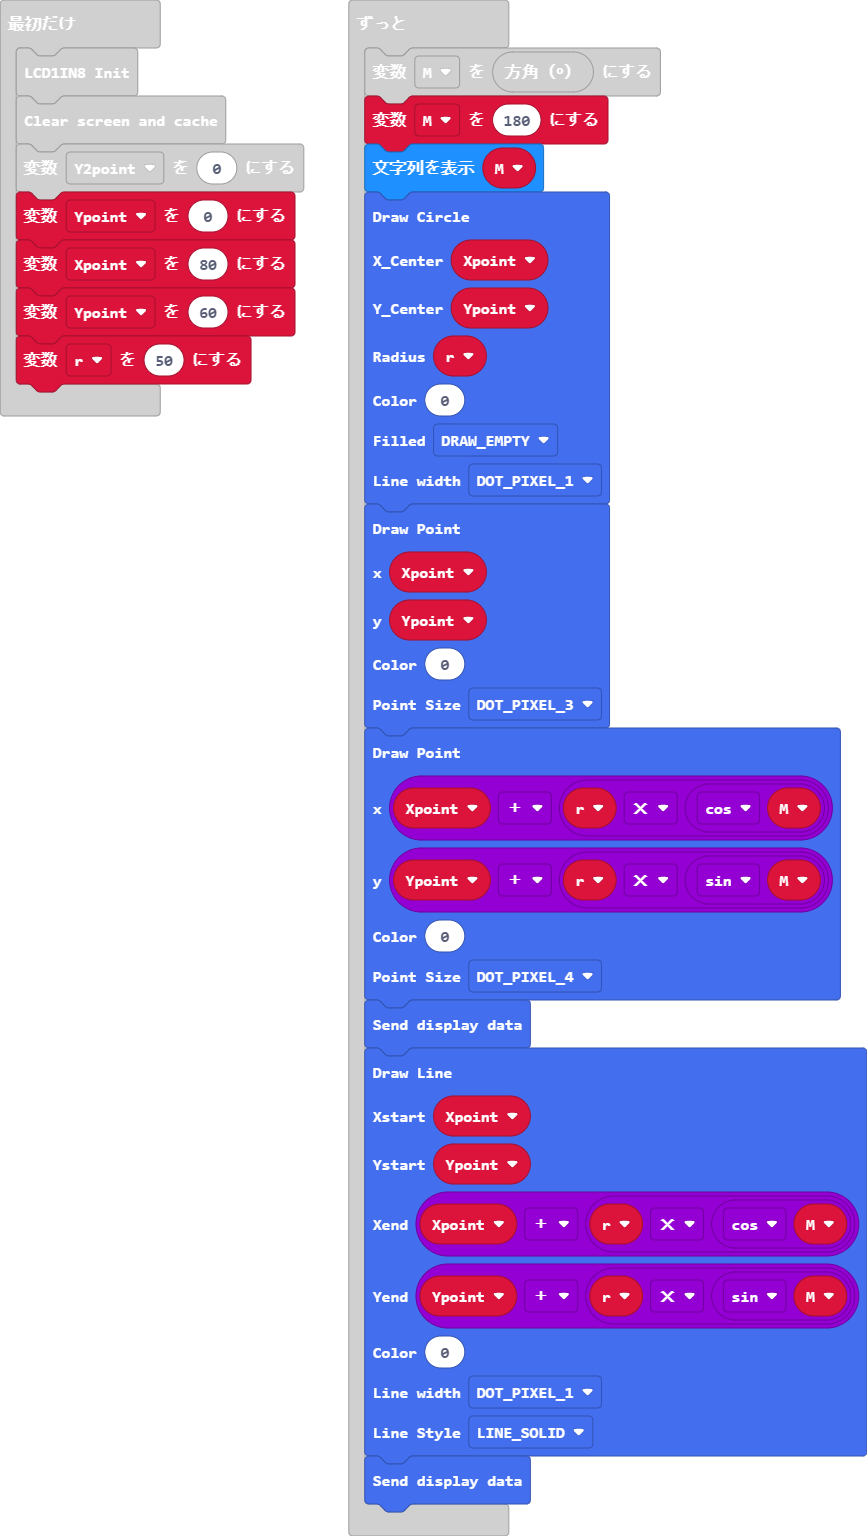
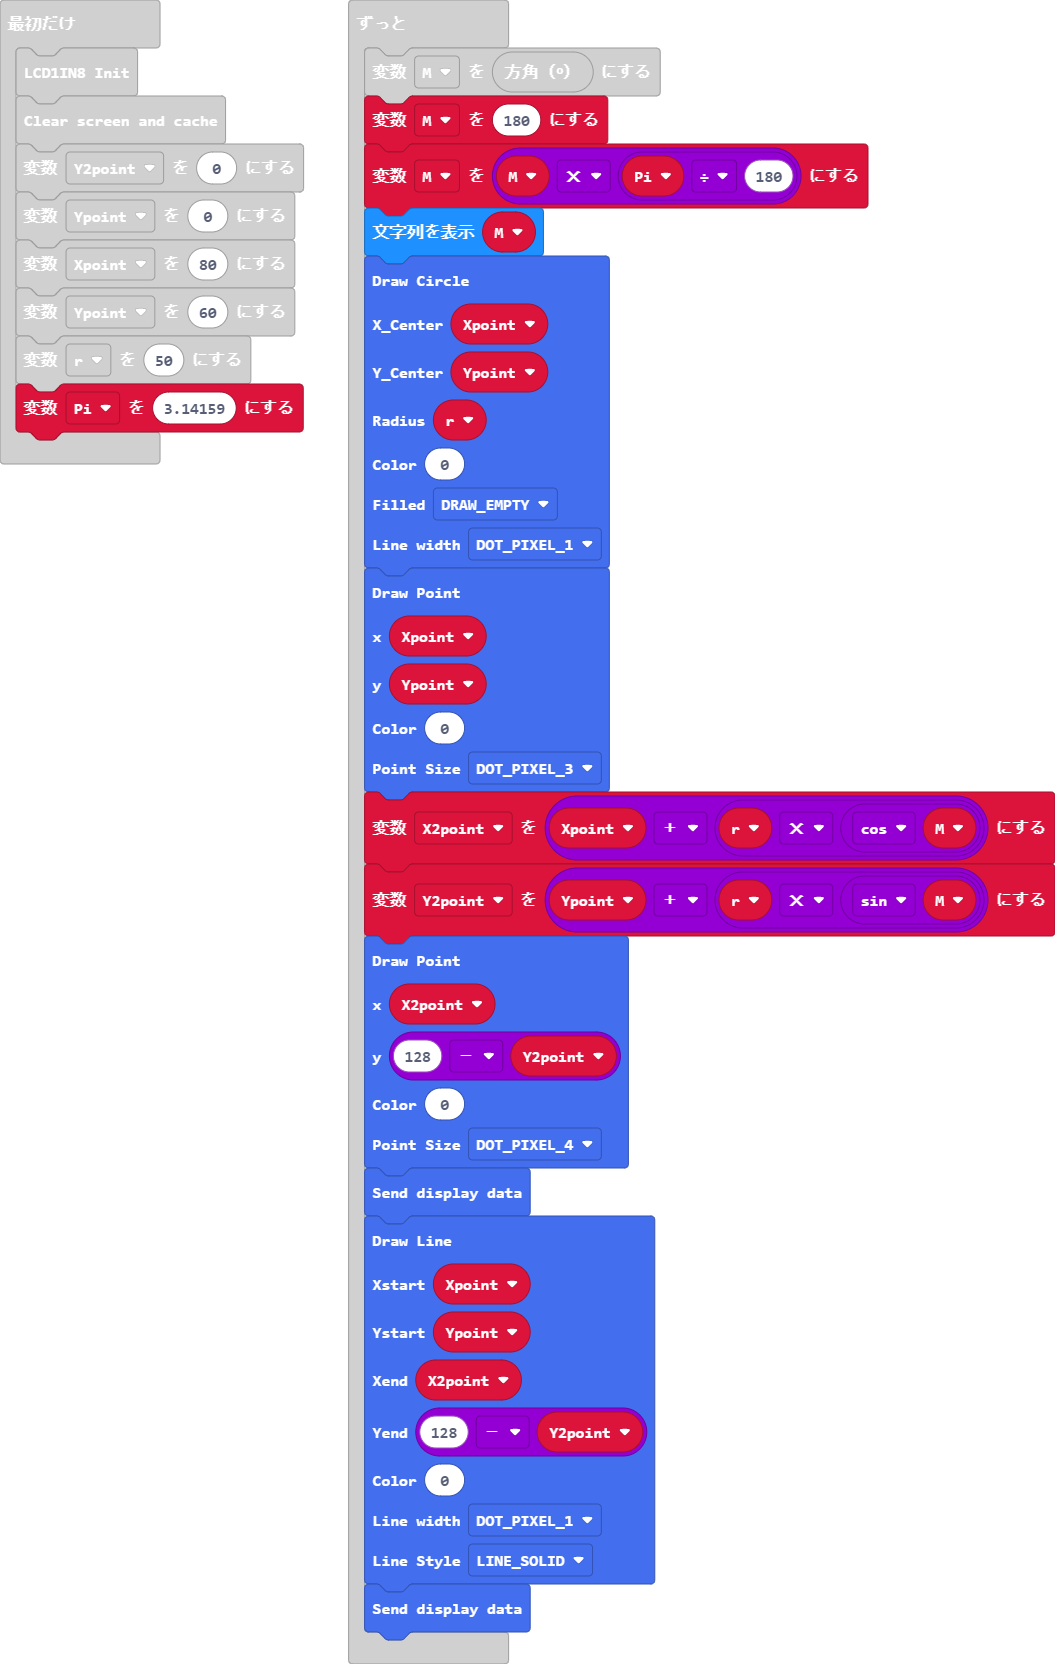
更新 main.blocks, main.ts

diff --git a/main.ts b/main.ts
@@ -1,3 +1,4 @@
+let X2point = 0
 let M = 0
 LCD1IN8.LCD_Init()
 LCD1IN8.LCD_Clear()
@@ -6,9 +7,11 @@ let Ypoint = 0
 let Xpoint = 80
 Ypoint = 60
 let r = 50
+let Pi = 3.14159
 basic.forever(function () {
     M = input.compassHeading()
     M = 180
+    M = M * (Pi / 180)
     basic.showString("" + (M))
     LCD1IN8.DrawCircle(
     Xpoint,
@@ -24,9 +27,11 @@ basic.forever(function () {
     0,
     DOT_PIXEL.DOT_PIXEL_3
     )
+    X2point = Xpoint + r * Math.cos(M)
+    Y2point = Ypoint + r * Math.sin(M)
     LCD1IN8.DrawPoint(
-    Xpoint + r * Math.cos(M),
-    Ypoint + r * Math.sin(M),
+    X2point,
+    128 - Y2point,
     0,
     DOT_PIXEL.DOT_PIXEL_4
     )
@@ -34,8 +39,8 @@ basic.forever(function () {
     LCD1IN8.DrawLine(
     Xpoint,
     Ypoint,
-    Xpoint + r * Math.cos(M),
-    Ypoint + r * Math.sin(M),
+    X2point,
+    128 - Y2point,
     0,
     DOT_PIXEL.DOT_PIXEL_1,
     LINE_STYLE.LINE_SOLID
